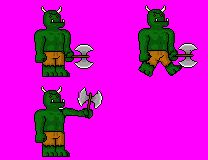
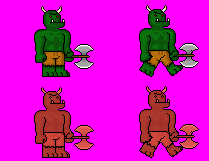
goblin takes damage and knight takes no damage

diff --git a/src/Enemies/BugEnemy.java b/src/Enemies/BugEnemy.java
@@ -20,6 +20,12 @@ import java.util.HashMap;
 public class BugEnemy extends Enemy {
     private float gravity = .5f;
     private float movementSpeed = .5f;
+    protected int hurtTimer = 0;
+    protected int hurtDuration = 45;        // frames of red, ~0.75s at 60fps
+    protected int knockbackTimer = 0;
+    protected int knockbackDuration = 14;
+    protected float knockbackSpeed = 4f;
+    protected Direction knockbackDirection = Direction.LEFT;
     private Direction startFacingDirection;
     private Direction facingDirection;
     private AirGroundState airGroundState;
@@ -27,10 +33,20 @@ public class BugEnemy extends Enemy {
 
     public BugEnemy(Point location, Direction facingDirection) {
         super(location.x, location.y, 
-            new SpriteSheet(ImageLoader.load("Goblin.png"), 103, 80), "WALK_RIGHT");
-        
+            new SpriteSheet(ImageLoader.load("Goblin.png"), 104, 80), "WALK_RIGHT");
+            
         this.startFacingDirection = facingDirection;
         this.initialize();
+    }
+
+    @Override
+    public void touchedPlayer(Player player) {
+        if (hurtTimer > 0) {
+            return;                 // already reeling, ignore repeat contact
+        }
+        hurtTimer = hurtDuration;
+        knockbackTimer = knockbackDuration;
+        knockbackDirection = (getX() < player.getX()) ? Direction.LEFT : Direction.RIGHT;
     }
 
     @Override
@@ -45,26 +61,33 @@ public class BugEnemy extends Enemy {
         airGroundState = AirGroundState.GROUND;
     }
 
+    
     @Override
     public void update(Player player) {
         float moveAmountX = 0;
         float moveAmountY = 0;
 
-        // add gravity (if in air, this will cause bug to fall)
         moveAmountY += gravity;
 
-        // if on ground, walk forward based on facing direction
-        if (airGroundState == AirGroundState.GROUND) {
-            if (facingDirection == Direction.RIGHT) {
-                moveAmountX += movementSpeed;
-            } else {
-                moveAmountX -= movementSpeed;
-            }
+        if (hurtTimer > 0) {
+            hurtTimer--;
         }
 
-        // move bug
+        if (knockbackTimer > 0) {
+            knockbackTimer--;
+            moveAmountX += knockbackDirection == Direction.RIGHT ? knockbackSpeed : -knockbackSpeed;
+        } else if (airGroundState == AirGroundState.GROUND) {
+            moveAmountX += facingDirection == Direction.RIGHT ? movementSpeed : -movementSpeed;
+        }
+
         moveYHandleCollision(moveAmountY);
         moveXHandleCollision(moveAmountX);
+
+        if (hurtTimer > 0) {
+            currentAnimationName = facingDirection == Direction.RIGHT ? "HURT_RIGHT" : "HURT_LEFT";
+        } else {
+            currentAnimationName = facingDirection == Direction.RIGHT ? "WALK_RIGHT" : "WALK_LEFT";
+        }
 
         super.update(player);
     }
@@ -73,6 +96,10 @@ public class BugEnemy extends Enemy {
     public void onEndCollisionCheckX(boolean hasCollided, Direction direction,  MapEntity entityCollidedWith) {
         // if bug has collided into something while walking forward,
         // it turns around (changes facing direction)
+        if (knockbackTimer > 0) {
+            return;
+        }
+
         if (hasCollided) {
             if (direction == Direction.RIGHT) {
                 facingDirection = Direction.LEFT;
@@ -113,6 +140,23 @@ public class BugEnemy extends Enemy {
                     .withScale(1).withImageEffect(ImageEffect.FLIP_HORIZONTAL)
                     .withBounds(31, 10, 38, 66).build(),
                 new FrameBuilder(spriteSheet.getSprite(0, 1), 20)
+                    .withScale(1).withImageEffect(ImageEffect.FLIP_HORIZONTAL)
+                    .withBounds(31, 10, 38, 66).build()
+            });
+
+            put("HURT_RIGHT", new Frame[] {
+                new FrameBuilder(spriteSheet.getSprite(1, 0), 20)
+                    .withScale(1).withBounds(35, 10, 38, 66).build(),
+                new FrameBuilder(spriteSheet.getSprite(1, 1), 20)
+                    .withScale(1).withBounds(35, 10, 38, 66).build()
+        
+            });
+
+            put("HURT_LEFT", new Frame[] {
+                new FrameBuilder(spriteSheet.getSprite(1, 0), 20)
+                    .withScale(1).withImageEffect(ImageEffect.FLIP_HORIZONTAL)
+                    .withBounds(31, 10, 38, 66).build(),
+                new FrameBuilder(spriteSheet.getSprite(1, 1), 20)
                     .withScale(1).withImageEffect(ImageEffect.FLIP_HORIZONTAL)
                     .withBounds(31, 10, 38, 66).build()
             });

diff --git a/src/GameObject/SpriteSheet.java b/src/GameObject/SpriteSheet.java
@@ -21,7 +21,7 @@ public class SpriteSheet {
 
 	// returns a subimage from the sprite sheet image based on the row and column
 	public BufferedImage getSprite(int spriteNumber, int animationNumber) {
-		return image.getSubimage((animationNumber * spriteWidth) + animationNumber, (spriteNumber * spriteHeight) + spriteNumber, spriteWidth, spriteHeight);
+		return image.getSubimage((animationNumber * spriteWidth), (spriteNumber * spriteHeight) , spriteWidth, spriteHeight);
 	}
 
 	// returns a subimage from the sprite sheet image based on the row and column

diff --git a/src/Maps/TestMap.java b/src/Maps/TestMap.java
@@ -23,6 +23,7 @@ public class TestMap extends Map {
 
     @Override
     public ArrayList<Enemy> loadEnemies() {
+        
         ArrayList<Enemy> enemies = new ArrayList<>();
 
         BugEnemy bugEnemy = new BugEnemy(getMapTile(16, 10).getLocation().subtractY(80), Direction.LEFT);
